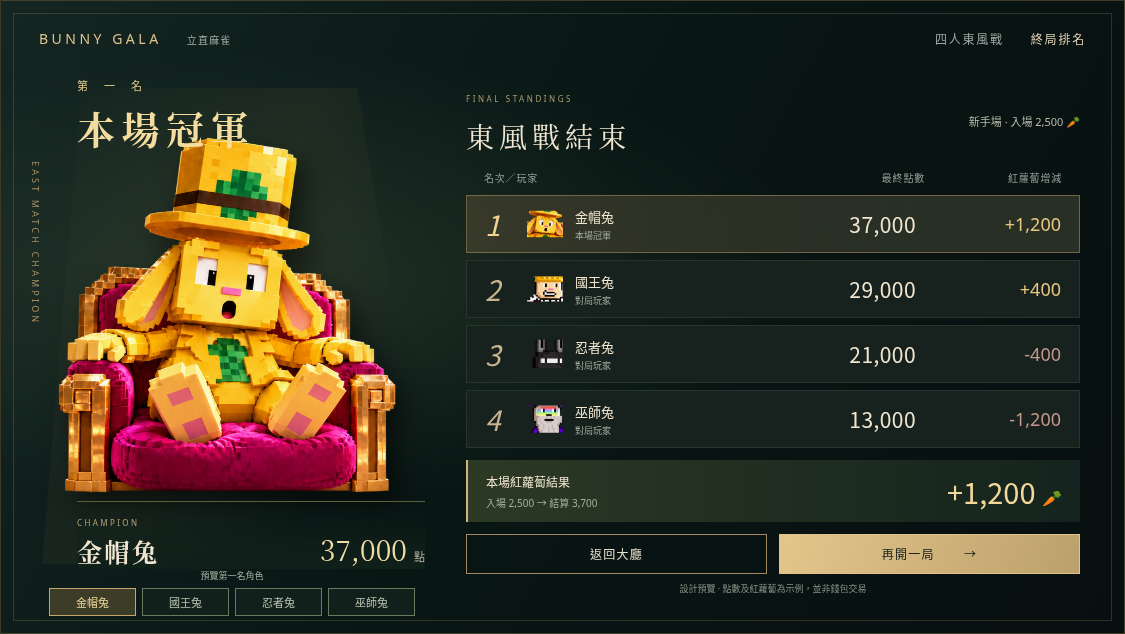
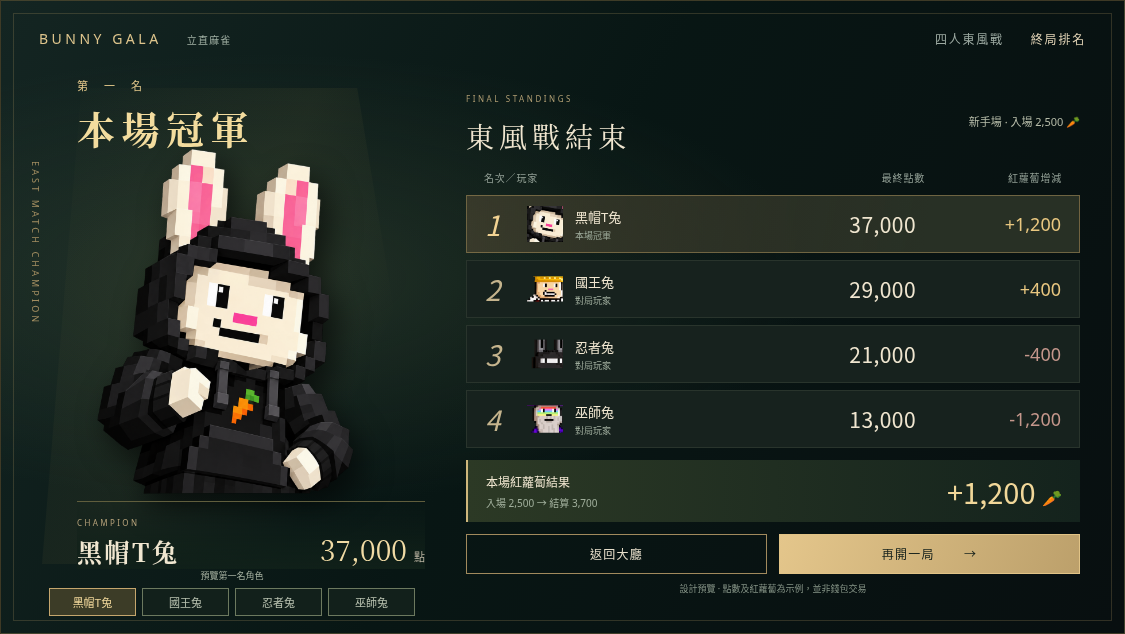
Replace champion preview with black hoodie rabbit cutout and gallery

diff --git a/ART/final-ranking-v2/preview.css b/ART/final-ranking-v2/preview.css
@@ -1,3 +1,6 @@
 *{box-sizing:border-box}html,body{margin:0;min-height:100%;background:#050b0b;color:#f0e6d0;font-family:"Noto Sans TC","Microsoft JhengHei",system-ui,sans-serif}body{display:flex;align-items:center;justify-content:center;min-height:100vh;overflow:hidden}.canvas{position:relative;width:1125px;height:634px;flex:0 0 auto;transform-origin:center;background:radial-gradient(ellipse at 24% 44%,#42513a66,transparent 45%),linear-gradient(118deg,#142522,#081614 48%,#080f10);border:1px solid #92784666;overflow:hidden}.canvas:before{content:"";position:absolute;inset:12px;border:1px solid #ad956140;pointer-events:none}.top{position:absolute;left:38px;right:38px;top:28px;display:flex;justify-content:space-between;align-items:center;font-size:12px;letter-spacing:.15em}.top>span{font-size:14px;color:#ddc48c;letter-spacing:.25em}.top i{font-size:10px;color:#a1b0a4;font-style:normal;letter-spacing:.12em;margin-left:18px}.top>div{color:#9daaa2}.top b{font-weight:400;color:#e0d2b5;margin-left:22px}.champion{position:absolute;left:16px;top:72px;bottom:64px;width:414px}.champion-light{position:absolute;inset:15px -5px 5px 25px;background:linear-gradient(115deg,transparent,#d5b55b10 45%,transparent 75%);clip-path:polygon(10% 0,80% 0,100% 100%,0 100%)}.vertical-label{position:absolute;left:12px;top:88px;writing-mode:vertical-rl;font-size:9px;letter-spacing:.35em;color:#a28d60}.champion-heading{position:absolute;left:60px;top:0;z-index:2}.champion-heading>small{letter-spacing:.6em;font-size:11px;color:#e4c88b}.champion-heading h1{font:600 38px/1.2 serif;margin:10px 0 0;letter-spacing:.17em;color:#f3dc9e}.cutout{position:absolute;left:14px;top:69px;width:390px;height:360px;object-fit:contain;object-position:center bottom;filter:drop-shadow(9px 13px 15px #0009)}.cutout[data-role=yellow]{left:36px;width:348px;height:360px;top:62px}.champion-name{position:absolute;left:60px;right:6px;bottom:0;display:grid;grid-template-columns:1fr auto;align-items:center;border-top:1px solid #bca46777;padding:15px 0 0;background:linear-gradient(0deg,#102019,transparent)}.champion-name>span{font-size:8px;letter-spacing:.3em;color:#b6a27a;grid-column:1/-1}.champion-name>strong{font:600 25px serif;letter-spacing:.1em;margin-top:5px}.champion-name>small{font:400 28px Georgia,serif;color:#f1dba5}.champion-name em{font:11px system-ui;color:#b9b2a1;font-style:normal}.results{position:absolute;top:91px;left:465px;right:44px;bottom:62px}.results-heading{display:flex;justify-content:space-between;align-items:center;margin-bottom:20px}.results-heading small{font-size:8px;letter-spacing:.32em;color:#ad9b71}.results-heading h2{font:500 28px serif;letter-spacing:.18em;margin:9px 0 0}.results-heading>span{font-size:11px;color:#b7bca9}.columns{display:grid;grid-template-columns:1fr 110px 137px;font-size:10px;color:#929f95;letter-spacing:.08em;padding:0 18px 10px}.columns>span:not(:first-child){text-align:right}ol{list-style:none;padding:0;margin:0;display:grid;gap:7px}li{height:61px;display:grid;grid-template-columns:34px 40px 1fr 110px 137px;gap:8px;align-items:center;padding:0 18px;background:#17221e;border:1px solid #65725b3d}li:first-child{background:linear-gradient(100deg,#6a583c66,#283025 75%);border-color:#ac925c88}.rank{font:italic 28px Georgia;color:#c5b48d}li:first-child .rank{color:#f3d393}.avatar{width:36px;height:36px;object-fit:contain}.person{font-size:13px;white-space:nowrap}.person small{display:block;font-size:9px;color:#9fac9c;margin-top:3px}.points{text-align:right;font:400 21px Georgia;letter-spacing:.02em}.net{text-align:right;font:500 18px system-ui;color:#d7cca8}.net.positive{color:#e9c780}.net.negative{color:#c5978c}.your-result{display:flex;justify-content:space-between;align-items:center;padding:12px 18px;margin-top:12px;background:linear-gradient(90deg,#2c3925,#14231d);border-left:2px solid #cfb77c}.your-result>span{font-size:12px}.your-result small{display:block;margin-top:4px;font-size:10px;color:#a1af9c}.your-result>strong{font:500 29px Georgia;color:#f1d799}.your-result em{font-size:16px;font-style:normal}.actions{display:flex;gap:12px;margin-top:16px}.actions button{height:40px;flex:1;border:1px solid #a18a5d;background:transparent;color:#e8dfcb;font:500 12px system-ui;letter-spacing:.1em;cursor:pointer}.actions .primary{background:linear-gradient(110deg,#e4c68b,#bca06b);color:#14201b;border-color:#e1c386}.actions .primary>span{margin-left:25px}.example-note{margin:8px 0 0;font-size:9px;color:#839184;text-align:center}.role-switch{position:absolute;bottom:15px;left:76px;right:76px;display:flex;gap:8px;align-items:center;justify-content:center}.role-switch>span{font-size:10px;color:#a3ae9e;margin-right:12px}.role-switch button{padding:6px 16px;border:1px solid #6c795f;background:#12201b;color:#b9c2b0;font-size:11px;cursor:pointer}.role-switch button[aria-pressed=true]{color:#f0d79a;border-color:#c5a66d;background:#3c3c27}#notice{position:fixed;bottom:8px;font-size:12px;color:#dcc894}button:focus-visible{outline:2px solid #f2d28b;outline-offset:3px}
 /* Keep preview controls in the champion column, clear of the result actions. */
 .role-switch{left:48px;right:auto;width:366px;bottom:17px;display:grid;grid-template-columns:repeat(4,1fr);gap:6px}.role-switch>span{grid-column:1/-1;text-align:center;margin:0;font-size:9px}.role-switch button{padding:5px 6px}.results{top:84px}.results-heading{margin-bottom:14px}li{height:58px}.your-result{padding:10px 18px}.actions{margin-top:12px}
+
+.cutout[data-role=yellow]{left:14px;top:69px;width:390px;height:360px}.avatar-window{position:relative;display:block;overflow:hidden;width:36px;height:36px}.avatar-window .hoodie-avatar{position:absolute;width:68px;height:68px;max-width:none;left:-16px;top:-4px;object-fit:contain}
+.avatar-window .hoodie-avatar{width:96px;height:96px;left:-31px;top:-28px}

diff --git a/app-source/dist/art/final-ranking-v2/preview.css b/app-source/dist/art/final-ranking-v2/preview.css
@@ -1,3 +1,6 @@
 *{box-sizing:border-box}html,body{margin:0;min-height:100%;background:#050b0b;color:#f0e6d0;font-family:"Noto Sans TC","Microsoft JhengHei",system-ui,sans-serif}body{display:flex;align-items:center;justify-content:center;min-height:100vh;overflow:hidden}.canvas{position:relative;width:1125px;height:634px;flex:0 0 auto;transform-origin:center;background:radial-gradient(ellipse at 24% 44%,#42513a66,transparent 45%),linear-gradient(118deg,#142522,#081614 48%,#080f10);border:1px solid #92784666;overflow:hidden}.canvas:before{content:"";position:absolute;inset:12px;border:1px solid #ad956140;pointer-events:none}.top{position:absolute;left:38px;right:38px;top:28px;display:flex;justify-content:space-between;align-items:center;font-size:12px;letter-spacing:.15em}.top>span{font-size:14px;color:#ddc48c;letter-spacing:.25em}.top i{font-size:10px;color:#a1b0a4;font-style:normal;letter-spacing:.12em;margin-left:18px}.top>div{color:#9daaa2}.top b{font-weight:400;color:#e0d2b5;margin-left:22px}.champion{position:absolute;left:16px;top:72px;bottom:64px;width:414px}.champion-light{position:absolute;inset:15px -5px 5px 25px;background:linear-gradient(115deg,transparent,#d5b55b10 45%,transparent 75%);clip-path:polygon(10% 0,80% 0,100% 100%,0 100%)}.vertical-label{position:absolute;left:12px;top:88px;writing-mode:vertical-rl;font-size:9px;letter-spacing:.35em;color:#a28d60}.champion-heading{position:absolute;left:60px;top:0;z-index:2}.champion-heading>small{letter-spacing:.6em;font-size:11px;color:#e4c88b}.champion-heading h1{font:600 38px/1.2 serif;margin:10px 0 0;letter-spacing:.17em;color:#f3dc9e}.cutout{position:absolute;left:14px;top:69px;width:390px;height:360px;object-fit:contain;object-position:center bottom;filter:drop-shadow(9px 13px 15px #0009)}.cutout[data-role=yellow]{left:36px;width:348px;height:360px;top:62px}.champion-name{position:absolute;left:60px;right:6px;bottom:0;display:grid;grid-template-columns:1fr auto;align-items:center;border-top:1px solid #bca46777;padding:15px 0 0;background:linear-gradient(0deg,#102019,transparent)}.champion-name>span{font-size:8px;letter-spacing:.3em;color:#b6a27a;grid-column:1/-1}.champion-name>strong{font:600 25px serif;letter-spacing:.1em;margin-top:5px}.champion-name>small{font:400 28px Georgia,serif;color:#f1dba5}.champion-name em{font:11px system-ui;color:#b9b2a1;font-style:normal}.results{position:absolute;top:91px;left:465px;right:44px;bottom:62px}.results-heading{display:flex;justify-content:space-between;align-items:center;margin-bottom:20px}.results-heading small{font-size:8px;letter-spacing:.32em;color:#ad9b71}.results-heading h2{font:500 28px serif;letter-spacing:.18em;margin:9px 0 0}.results-heading>span{font-size:11px;color:#b7bca9}.columns{display:grid;grid-template-columns:1fr 110px 137px;font-size:10px;color:#929f95;letter-spacing:.08em;padding:0 18px 10px}.columns>span:not(:first-child){text-align:right}ol{list-style:none;padding:0;margin:0;display:grid;gap:7px}li{height:61px;display:grid;grid-template-columns:34px 40px 1fr 110px 137px;gap:8px;align-items:center;padding:0 18px;background:#17221e;border:1px solid #65725b3d}li:first-child{background:linear-gradient(100deg,#6a583c66,#283025 75%);border-color:#ac925c88}.rank{font:italic 28px Georgia;color:#c5b48d}li:first-child .rank{color:#f3d393}.avatar{width:36px;height:36px;object-fit:contain}.person{font-size:13px;white-space:nowrap}.person small{display:block;font-size:9px;color:#9fac9c;margin-top:3px}.points{text-align:right;font:400 21px Georgia;letter-spacing:.02em}.net{text-align:right;font:500 18px system-ui;color:#d7cca8}.net.positive{color:#e9c780}.net.negative{color:#c5978c}.your-result{display:flex;justify-content:space-between;align-items:center;padding:12px 18px;margin-top:12px;background:linear-gradient(90deg,#2c3925,#14231d);border-left:2px solid #cfb77c}.your-result>span{font-size:12px}.your-result small{display:block;margin-top:4px;font-size:10px;color:#a1af9c}.your-result>strong{font:500 29px Georgia;color:#f1d799}.your-result em{font-size:16px;font-style:normal}.actions{display:flex;gap:12px;margin-top:16px}.actions button{height:40px;flex:1;border:1px solid #a18a5d;background:transparent;color:#e8dfcb;font:500 12px system-ui;letter-spacing:.1em;cursor:pointer}.actions .primary{background:linear-gradient(110deg,#e4c68b,#bca06b);color:#14201b;border-color:#e1c386}.actions .primary>span{margin-left:25px}.example-note{margin:8px 0 0;font-size:9px;color:#839184;text-align:center}.role-switch{position:absolute;bottom:15px;left:76px;right:76px;display:flex;gap:8px;align-items:center;justify-content:center}.role-switch>span{font-size:10px;color:#a3ae9e;margin-right:12px}.role-switch button{padding:6px 16px;border:1px solid #6c795f;background:#12201b;color:#b9c2b0;font-size:11px;cursor:pointer}.role-switch button[aria-pressed=true]{color:#f0d79a;border-color:#c5a66d;background:#3c3c27}#notice{position:fixed;bottom:8px;font-size:12px;color:#dcc894}button:focus-visible{outline:2px solid #f2d28b;outline-offset:3px}
 /* Keep preview controls in the champion column, clear of the result actions. */
 .role-switch{left:48px;right:auto;width:366px;bottom:17px;display:grid;grid-template-columns:repeat(4,1fr);gap:6px}.role-switch>span{grid-column:1/-1;text-align:center;margin:0;font-size:9px}.role-switch button{padding:5px 6px}.results{top:84px}.results-heading{margin-bottom:14px}li{height:58px}.your-result{padding:10px 18px}.actions{margin-top:12px}
+
+.cutout[data-role=yellow]{left:14px;top:69px;width:390px;height:360px}.avatar-window{position:relative;display:block;overflow:hidden;width:36px;height:36px}.avatar-window .hoodie-avatar{position:absolute;width:68px;height:68px;max-width:none;left:-16px;top:-4px;object-fit:contain}
+.avatar-window .hoodie-avatar{width:96px;height:96px;left:-31px;top:-28px}

diff --git a/app-source/public/art/final-ranking-v2/preview.css b/app-source/public/art/final-ranking-v2/preview.css
@@ -1,3 +1,6 @@
 *{box-sizing:border-box}html,body{margin:0;min-height:100%;background:#050b0b;color:#f0e6d0;font-family:"Noto Sans TC","Microsoft JhengHei",system-ui,sans-serif}body{display:flex;align-items:center;justify-content:center;min-height:100vh;overflow:hidden}.canvas{position:relative;width:1125px;height:634px;flex:0 0 auto;transform-origin:center;background:radial-gradient(ellipse at 24% 44%,#42513a66,transparent 45%),linear-gradient(118deg,#142522,#081614 48%,#080f10);border:1px solid #92784666;overflow:hidden}.canvas:before{content:"";position:absolute;inset:12px;border:1px solid #ad956140;pointer-events:none}.top{position:absolute;left:38px;right:38px;top:28px;display:flex;justify-content:space-between;align-items:center;font-size:12px;letter-spacing:.15em}.top>span{font-size:14px;color:#ddc48c;letter-spacing:.25em}.top i{font-size:10px;color:#a1b0a4;font-style:normal;letter-spacing:.12em;margin-left:18px}.top>div{color:#9daaa2}.top b{font-weight:400;color:#e0d2b5;margin-left:22px}.champion{position:absolute;left:16px;top:72px;bottom:64px;width:414px}.champion-light{position:absolute;inset:15px -5px 5px 25px;background:linear-gradient(115deg,transparent,#d5b55b10 45%,transparent 75%);clip-path:polygon(10% 0,80% 0,100% 100%,0 100%)}.vertical-label{position:absolute;left:12px;top:88px;writing-mode:vertical-rl;font-size:9px;letter-spacing:.35em;color:#a28d60}.champion-heading{position:absolute;left:60px;top:0;z-index:2}.champion-heading>small{letter-spacing:.6em;font-size:11px;color:#e4c88b}.champion-heading h1{font:600 38px/1.2 serif;margin:10px 0 0;letter-spacing:.17em;color:#f3dc9e}.cutout{position:absolute;left:14px;top:69px;width:390px;height:360px;object-fit:contain;object-position:center bottom;filter:drop-shadow(9px 13px 15px #0009)}.cutout[data-role=yellow]{left:36px;width:348px;height:360px;top:62px}.champion-name{position:absolute;left:60px;right:6px;bottom:0;display:grid;grid-template-columns:1fr auto;align-items:center;border-top:1px solid #bca46777;padding:15px 0 0;background:linear-gradient(0deg,#102019,transparent)}.champion-name>span{font-size:8px;letter-spacing:.3em;color:#b6a27a;grid-column:1/-1}.champion-name>strong{font:600 25px serif;letter-spacing:.1em;margin-top:5px}.champion-name>small{font:400 28px Georgia,serif;color:#f1dba5}.champion-name em{font:11px system-ui;color:#b9b2a1;font-style:normal}.results{position:absolute;top:91px;left:465px;right:44px;bottom:62px}.results-heading{display:flex;justify-content:space-between;align-items:center;margin-bottom:20px}.results-heading small{font-size:8px;letter-spacing:.32em;color:#ad9b71}.results-heading h2{font:500 28px serif;letter-spacing:.18em;margin:9px 0 0}.results-heading>span{font-size:11px;color:#b7bca9}.columns{display:grid;grid-template-columns:1fr 110px 137px;font-size:10px;color:#929f95;letter-spacing:.08em;padding:0 18px 10px}.columns>span:not(:first-child){text-align:right}ol{list-style:none;padding:0;margin:0;display:grid;gap:7px}li{height:61px;display:grid;grid-template-columns:34px 40px 1fr 110px 137px;gap:8px;align-items:center;padding:0 18px;background:#17221e;border:1px solid #65725b3d}li:first-child{background:linear-gradient(100deg,#6a583c66,#283025 75%);border-color:#ac925c88}.rank{font:italic 28px Georgia;color:#c5b48d}li:first-child .rank{color:#f3d393}.avatar{width:36px;height:36px;object-fit:contain}.person{font-size:13px;white-space:nowrap}.person small{display:block;font-size:9px;color:#9fac9c;margin-top:3px}.points{text-align:right;font:400 21px Georgia;letter-spacing:.02em}.net{text-align:right;font:500 18px system-ui;color:#d7cca8}.net.positive{color:#e9c780}.net.negative{color:#c5978c}.your-result{display:flex;justify-content:space-between;align-items:center;padding:12px 18px;margin-top:12px;background:linear-gradient(90deg,#2c3925,#14231d);border-left:2px solid #cfb77c}.your-result>span{font-size:12px}.your-result small{display:block;margin-top:4px;font-size:10px;color:#a1af9c}.your-result>strong{font:500 29px Georgia;color:#f1d799}.your-result em{font-size:16px;font-style:normal}.actions{display:flex;gap:12px;margin-top:16px}.actions button{height:40px;flex:1;border:1px solid #a18a5d;background:transparent;color:#e8dfcb;font:500 12px system-ui;letter-spacing:.1em;cursor:pointer}.actions .primary{background:linear-gradient(110deg,#e4c68b,#bca06b);color:#14201b;border-color:#e1c386}.actions .primary>span{margin-left:25px}.example-note{margin:8px 0 0;font-size:9px;color:#839184;text-align:center}.role-switch{position:absolute;bottom:15px;left:76px;right:76px;display:flex;gap:8px;align-items:center;justify-content:center}.role-switch>span{font-size:10px;color:#a3ae9e;margin-right:12px}.role-switch button{padding:6px 16px;border:1px solid #6c795f;background:#12201b;color:#b9c2b0;font-size:11px;cursor:pointer}.role-switch button[aria-pressed=true]{color:#f0d79a;border-color:#c5a66d;background:#3c3c27}#notice{position:fixed;bottom:8px;font-size:12px;color:#dcc894}button:focus-visible{outline:2px solid #f2d28b;outline-offset:3px}
 /* Keep preview controls in the champion column, clear of the result actions. */
 .role-switch{left:48px;right:auto;width:366px;bottom:17px;display:grid;grid-template-columns:repeat(4,1fr);gap:6px}.role-switch>span{grid-column:1/-1;text-align:center;margin:0;font-size:9px}.role-switch button{padding:5px 6px}.results{top:84px}.results-heading{margin-bottom:14px}li{height:58px}.your-result{padding:10px 18px}.actions{margin-top:12px}
+
+.cutout[data-role=yellow]{left:14px;top:69px;width:390px;height:360px}.avatar-window{position:relative;display:block;overflow:hidden;width:36px;height:36px}.avatar-window .hoodie-avatar{position:absolute;width:68px;height:68px;max-width:none;left:-16px;top:-4px;object-fit:contain}
+.avatar-window .hoodie-avatar{width:96px;height:96px;left:-31px;top:-28px}

diff --git a/ART/final-ranking-v2/index.html b/ART/final-ranking-v2/index.html
@@ -1,1 +1,1 @@
-<!doctype html><html lang="zh-Hant"><head><meta charset="utf-8"><meta name="viewport" content="width=device-width,initial-scale=1"><title>Bunny Gala · 終局排名設計預覽</title><link rel="stylesheet" href="preview.css"></head><body><main class="canvas"><header class="top"><span>BUNNY GALA <i>立直麻雀</i></span><div>四人東風戰 <b>終局排名</b></div></header><section class="champion"><div class="champion-light"></div><span class="vertical-label">EAST MATCH CHAMPION</span><div class="champion-heading"><small>第 一 名</small><h1>本場冠軍</h1></div><img id="champion" class="cutout" alt="第一名去背角色"><div class="champion-name"><span>CHAMPION</span><strong id="winnerName"></strong><small>37,000 <em>點</em></small></div></section><section class="results"><div class="results-heading"><div><small>FINAL STANDINGS</small><h2>東風戰結束</h2></div><span>新手場 · 入場 2,500 🥕</span></div><div class="columns"><span>名次／玩家</span><span>最終點數</span><span>紅蘿蔔增減</span></div><ol id="standings"></ol><div class="your-result"><span>本場紅蘿蔔結果<small>入場 2,500 → 結算 3,700</small></span><strong>+1,200 <em>🥕</em></strong></div><footer class="actions"><button type="button" class="secondary" id="back">返回大廳</button><button type="button" class="primary" id="again">再開一局 <span>→</span></button></footer><p class="example-note">設計預覽 · 點數及紅蘿蔔為示例，並非錢包交易</p></section><nav class="role-switch" aria-label="切換冠軍角色"><span>預覽第一名角色</span><button data-role="yellow">金帽兔</button><button data-role="king">國王兔</button><button data-role="ninja">忍者兔</button><button data-role="wizard">巫師兔</button></nav></main><div id="notice" role="status"></div><script src="preview.js"></script></body></html>
+<!doctype html><html lang="zh-Hant"><head><meta charset="utf-8"><meta name="viewport" content="width=device-width,initial-scale=1"><title>Bunny Gala · 終局排名設計預覽</title><link rel="stylesheet" href="preview.css"></head><body><main class="canvas"><header class="top"><span>BUNNY GALA <i>立直麻雀</i></span><div>四人東風戰 <b>終局排名</b></div></header><section class="champion"><div class="champion-light"></div><span class="vertical-label">EAST MATCH CHAMPION</span><div class="champion-heading"><small>第 一 名</small><h1>本場冠軍</h1></div><img id="champion" class="cutout" alt="第一名去背角色"><div class="champion-name"><span>CHAMPION</span><strong id="winnerName"></strong><small>37,000 <em>點</em></small></div></section><section class="results"><div class="results-heading"><div><small>FINAL STANDINGS</small><h2>東風戰結束</h2></div><span>新手場 · 入場 2,500 🥕</span></div><div class="columns"><span>名次／玩家</span><span>最終點數</span><span>紅蘿蔔增減</span></div><ol id="standings"></ol><div class="your-result"><span>本場紅蘿蔔結果<small>入場 2,500 → 結算 3,700</small></span><strong>+1,200 <em>🥕</em></strong></div><footer class="actions"><button type="button" class="secondary" id="back">返回大廳</button><button type="button" class="primary" id="again">再開一局 <span>→</span></button></footer><p class="example-note">設計預覽 · 點數及紅蘿蔔為示例，並非錢包交易</p></section><nav class="role-switch" aria-label="切換冠軍角色"><span>預覽第一名角色</span><button data-role="yellow">黑帽T兔</button><button data-role="king">國王兔</button><button data-role="ninja">忍者兔</button><button data-role="wizard">巫師兔</button></nav></main><div id="notice" role="status"></div><script src="preview.js"></script></body></html>

diff --git a/app-source/dist/art/final-ranking-v2/index.html b/app-source/dist/art/final-ranking-v2/index.html
@@ -1,1 +1,1 @@
-<!doctype html><html lang="zh-Hant"><head><meta charset="utf-8"><meta name="viewport" content="width=device-width,initial-scale=1"><title>Bunny Gala · 終局排名設計預覽</title><link rel="stylesheet" href="preview.css"></head><body><main class="canvas"><header class="top"><span>BUNNY GALA <i>立直麻雀</i></span><div>四人東風戰 <b>終局排名</b></div></header><section class="champion"><div class="champion-light"></div><span class="vertical-label">EAST MATCH CHAMPION</span><div class="champion-heading"><small>第 一 名</small><h1>本場冠軍</h1></div><img id="champion" class="cutout" alt="第一名去背角色"><div class="champion-name"><span>CHAMPION</span><strong id="winnerName"></strong><small>37,000 <em>點</em></small></div></section><section class="results"><div class="results-heading"><div><small>FINAL STANDINGS</small><h2>東風戰結束</h2></div><span>新手場 · 入場 2,500 🥕</span></div><div class="columns"><span>名次／玩家</span><span>最終點數</span><span>紅蘿蔔增減</span></div><ol id="standings"></ol><div class="your-result"><span>本場紅蘿蔔結果<small>入場 2,500 → 結算 3,700</small></span><strong>+1,200 <em>🥕</em></strong></div><footer class="actions"><button type="button" class="secondary" id="back">返回大廳</button><button type="button" class="primary" id="again">再開一局 <span>→</span></button></footer><p class="example-note">設計預覽 · 點數及紅蘿蔔為示例，並非錢包交易</p></section><nav class="role-switch" aria-label="切換冠軍角色"><span>預覽第一名角色</span><button data-role="yellow">金帽兔</button><button data-role="king">國王兔</button><button data-role="ninja">忍者兔</button><button data-role="wizard">巫師兔</button></nav></main><div id="notice" role="status"></div><script src="preview.js"></script></body></html>
+<!doctype html><html lang="zh-Hant"><head><meta charset="utf-8"><meta name="viewport" content="width=device-width,initial-scale=1"><title>Bunny Gala · 終局排名設計預覽</title><link rel="stylesheet" href="preview.css"></head><body><main class="canvas"><header class="top"><span>BUNNY GALA <i>立直麻雀</i></span><div>四人東風戰 <b>終局排名</b></div></header><section class="champion"><div class="champion-light"></div><span class="vertical-label">EAST MATCH CHAMPION</span><div class="champion-heading"><small>第 一 名</small><h1>本場冠軍</h1></div><img id="champion" class="cutout" alt="第一名去背角色"><div class="champion-name"><span>CHAMPION</span><strong id="winnerName"></strong><small>37,000 <em>點</em></small></div></section><section class="results"><div class="results-heading"><div><small>FINAL STANDINGS</small><h2>東風戰結束</h2></div><span>新手場 · 入場 2,500 🥕</span></div><div class="columns"><span>名次／玩家</span><span>最終點數</span><span>紅蘿蔔增減</span></div><ol id="standings"></ol><div class="your-result"><span>本場紅蘿蔔結果<small>入場 2,500 → 結算 3,700</small></span><strong>+1,200 <em>🥕</em></strong></div><footer class="actions"><button type="button" class="secondary" id="back">返回大廳</button><button type="button" class="primary" id="again">再開一局 <span>→</span></button></footer><p class="example-note">設計預覽 · 點數及紅蘿蔔為示例，並非錢包交易</p></section><nav class="role-switch" aria-label="切換冠軍角色"><span>預覽第一名角色</span><button data-role="yellow">黑帽T兔</button><button data-role="king">國王兔</button><button data-role="ninja">忍者兔</button><button data-role="wizard">巫師兔</button></nav></main><div id="notice" role="status"></div><script src="preview.js"></script></body></html>

diff --git a/app-source/public/art/final-ranking-v2/index.html b/app-source/public/art/final-ranking-v2/index.html
@@ -1,1 +1,1 @@
-<!doctype html><html lang="zh-Hant"><head><meta charset="utf-8"><meta name="viewport" content="width=device-width,initial-scale=1"><title>Bunny Gala · 終局排名設計預覽</title><link rel="stylesheet" href="preview.css"></head><body><main class="canvas"><header class="top"><span>BUNNY GALA <i>立直麻雀</i></span><div>四人東風戰 <b>終局排名</b></div></header><section class="champion"><div class="champion-light"></div><span class="vertical-label">EAST MATCH CHAMPION</span><div class="champion-heading"><small>第 一 名</small><h1>本場冠軍</h1></div><img id="champion" class="cutout" alt="第一名去背角色"><div class="champion-name"><span>CHAMPION</span><strong id="winnerName"></strong><small>37,000 <em>點</em></small></div></section><section class="results"><div class="results-heading"><div><small>FINAL STANDINGS</small><h2>東風戰結束</h2></div><span>新手場 · 入場 2,500 🥕</span></div><div class="columns"><span>名次／玩家</span><span>最終點數</span><span>紅蘿蔔增減</span></div><ol id="standings"></ol><div class="your-result"><span>本場紅蘿蔔結果<small>入場 2,500 → 結算 3,700</small></span><strong>+1,200 <em>🥕</em></strong></div><footer class="actions"><button type="button" class="secondary" id="back">返回大廳</button><button type="button" class="primary" id="again">再開一局 <span>→</span></button></footer><p class="example-note">設計預覽 · 點數及紅蘿蔔為示例，並非錢包交易</p></section><nav class="role-switch" aria-label="切換冠軍角色"><span>預覽第一名角色</span><button data-role="yellow">金帽兔</button><button data-role="king">國王兔</button><button data-role="ninja">忍者兔</button><button data-role="wizard">巫師兔</button></nav></main><div id="notice" role="status"></div><script src="preview.js"></script></body></html>
+<!doctype html><html lang="zh-Hant"><head><meta charset="utf-8"><meta name="viewport" content="width=device-width,initial-scale=1"><title>Bunny Gala · 終局排名設計預覽</title><link rel="stylesheet" href="preview.css"></head><body><main class="canvas"><header class="top"><span>BUNNY GALA <i>立直麻雀</i></span><div>四人東風戰 <b>終局排名</b></div></header><section class="champion"><div class="champion-light"></div><span class="vertical-label">EAST MATCH CHAMPION</span><div class="champion-heading"><small>第 一 名</small><h1>本場冠軍</h1></div><img id="champion" class="cutout" alt="第一名去背角色"><div class="champion-name"><span>CHAMPION</span><strong id="winnerName"></strong><small>37,000 <em>點</em></small></div></section><section class="results"><div class="results-heading"><div><small>FINAL STANDINGS</small><h2>東風戰結束</h2></div><span>新手場 · 入場 2,500 🥕</span></div><div class="columns"><span>名次／玩家</span><span>最終點數</span><span>紅蘿蔔增減</span></div><ol id="standings"></ol><div class="your-result"><span>本場紅蘿蔔結果<small>入場 2,500 → 結算 3,700</small></span><strong>+1,200 <em>🥕</em></strong></div><footer class="actions"><button type="button" class="secondary" id="back">返回大廳</button><button type="button" class="primary" id="again">再開一局 <span>→</span></button></footer><p class="example-note">設計預覽 · 點數及紅蘿蔔為示例，並非錢包交易</p></section><nav class="role-switch" aria-label="切換冠軍角色"><span>預覽第一名角色</span><button data-role="yellow">黑帽T兔</button><button data-role="king">國王兔</button><button data-role="ninja">忍者兔</button><button data-role="wizard">巫師兔</button></nav></main><div id="notice" role="status"></div><script src="preview.js"></script></body></html>

diff --git a/ART/final-ranking-v2/preview.js b/ART/final-ranking-v2/preview.js
@@ -1,4 +1,4 @@
-const roles=['yellow','king','ninja','wizard'],names={yellow:'金帽兔',king:'國王兔',ninja:'忍者兔',wizard:'巫師兔'},points=[37000,29000,21000,13000],net=[1200,400,-400,-1200];
-function show(role){if(!roles.includes(role))role='yellow';const image=document.querySelector('#champion');image.src=role==='yellow'?'/art/results/yellow-presentation.png':'/art/ribbon-v2/'+role+'-character.png';image.dataset.role=role;document.querySelector('#winnerName').textContent=names[role];document.querySelector('#standings').replaceChildren(...roles.map((_,i)=>{const character=roles[(roles.indexOf(role)+i)%4],li=document.createElement('li');li.innerHTML='<span class="rank">'+(i+1)+'</span><img class="avatar" src="/art/results/'+character+'-avatar.png" alt=""><span class="person">'+names[character]+'<small>'+(i===0?'本場冠軍':'對局玩家')+'</small></span><strong class="points">'+points[i].toLocaleString()+'</strong><span class="net '+(net[i]>0?'positive':'negative')+'">'+(net[i]>0?'+':'')+net[i].toLocaleString()+'</span>';return li}));document.querySelectorAll('[data-role]').forEach(b=>{if(b.tagName==='BUTTON')b.setAttribute('aria-pressed',String(b.dataset.role===role))});const url=new URL(location.href);url.searchParams.set('role',role);history.replaceState(null,'',url)}
+const roles=['yellow','king','ninja','wizard'],names={yellow:'黑帽T兔',king:'國王兔',ninja:'忍者兔',wizard:'巫師兔'},points=[37000,29000,21000,13000],net=[1200,400,-400,-1200];
+function show(role){if(!roles.includes(role))role='yellow';const image=document.querySelector('#champion');image.src=role==='yellow'?'hoodie-character.png':'/art/ribbon-v2/'+role+'-character.png';image.dataset.role=role;document.querySelector('#winnerName').textContent=names[role];document.querySelector('#standings').replaceChildren(...roles.map((_,i)=>{const character=roles[(roles.indexOf(role)+i)%4],li=document.createElement('li');li.innerHTML='<span class="rank">'+(i+1)+'</span><span class="avatar-window"><img class="avatar '+(character==='yellow'?'hoodie-avatar':'')+'" src="'+(character==='yellow'?'hoodie-character.png':'/art/results/'+character+'-avatar.png')+'" alt=""></span><span class="person">'+names[character]+'<small>'+(i===0?'本場冠軍':'對局玩家')+'</small></span><strong class="points">'+points[i].toLocaleString()+'</strong><span class="net '+(net[i]>0?'positive':'negative')+'">'+(net[i]>0?'+':'')+net[i].toLocaleString()+'</span>';return li}));document.querySelectorAll('[data-role]').forEach(b=>{if(b.tagName==='BUTTON')b.setAttribute('aria-pressed',String(b.dataset.role===role))});const url=new URL(location.href);url.searchParams.set('role',role);history.replaceState(null,'',url)}
 document.querySelectorAll('.role-switch button').forEach(b=>b.onclick=()=>show(b.dataset.role));const resize=()=>document.querySelector('.canvas').style.transform='scale('+Math.min(innerWidth/1125,innerHeight/634)+')';addEventListener('resize',resize);resize();show(new URLSearchParams(location.search).get('role'));
 for(const id of ['back','again'])document.getElementById(id).onclick=()=>document.querySelector('#notice').textContent='這是設計預覽，沒有變更牌局或錢包。';

diff --git a/app-source/dist/art/final-ranking-v2/preview.js b/app-source/dist/art/final-ranking-v2/preview.js
@@ -1,4 +1,4 @@
-const roles=['yellow','king','ninja','wizard'],names={yellow:'金帽兔',king:'國王兔',ninja:'忍者兔',wizard:'巫師兔'},points=[37000,29000,21000,13000],net=[1200,400,-400,-1200];
-function show(role){if(!roles.includes(role))role='yellow';const image=document.querySelector('#champion');image.src=role==='yellow'?'/art/results/yellow-presentation.png':'/art/ribbon-v2/'+role+'-character.png';image.dataset.role=role;document.querySelector('#winnerName').textContent=names[role];document.querySelector('#standings').replaceChildren(...roles.map((_,i)=>{const character=roles[(roles.indexOf(role)+i)%4],li=document.createElement('li');li.innerHTML='<span class="rank">'+(i+1)+'</span><img class="avatar" src="/art/results/'+character+'-avatar.png" alt=""><span class="person">'+names[character]+'<small>'+(i===0?'本場冠軍':'對局玩家')+'</small></span><strong class="points">'+points[i].toLocaleString()+'</strong><span class="net '+(net[i]>0?'positive':'negative')+'">'+(net[i]>0?'+':'')+net[i].toLocaleString()+'</span>';return li}));document.querySelectorAll('[data-role]').forEach(b=>{if(b.tagName==='BUTTON')b.setAttribute('aria-pressed',String(b.dataset.role===role))});const url=new URL(location.href);url.searchParams.set('role',role);history.replaceState(null,'',url)}
+const roles=['yellow','king','ninja','wizard'],names={yellow:'黑帽T兔',king:'國王兔',ninja:'忍者兔',wizard:'巫師兔'},points=[37000,29000,21000,13000],net=[1200,400,-400,-1200];
+function show(role){if(!roles.includes(role))role='yellow';const image=document.querySelector('#champion');image.src=role==='yellow'?'hoodie-character.png':'/art/ribbon-v2/'+role+'-character.png';image.dataset.role=role;document.querySelector('#winnerName').textContent=names[role];document.querySelector('#standings').replaceChildren(...roles.map((_,i)=>{const character=roles[(roles.indexOf(role)+i)%4],li=document.createElement('li');li.innerHTML='<span class="rank">'+(i+1)+'</span><span class="avatar-window"><img class="avatar '+(character==='yellow'?'hoodie-avatar':'')+'" src="'+(character==='yellow'?'hoodie-character.png':'/art/results/'+character+'-avatar.png')+'" alt=""></span><span class="person">'+names[character]+'<small>'+(i===0?'本場冠軍':'對局玩家')+'</small></span><strong class="points">'+points[i].toLocaleString()+'</strong><span class="net '+(net[i]>0?'positive':'negative')+'">'+(net[i]>0?'+':'')+net[i].toLocaleString()+'</span>';return li}));document.querySelectorAll('[data-role]').forEach(b=>{if(b.tagName==='BUTTON')b.setAttribute('aria-pressed',String(b.dataset.role===role))});const url=new URL(location.href);url.searchParams.set('role',role);history.replaceState(null,'',url)}
 document.querySelectorAll('.role-switch button').forEach(b=>b.onclick=()=>show(b.dataset.role));const resize=()=>document.querySelector('.canvas').style.transform='scale('+Math.min(innerWidth/1125,innerHeight/634)+')';addEventListener('resize',resize);resize();show(new URLSearchParams(location.search).get('role'));
 for(const id of ['back','again'])document.getElementById(id).onclick=()=>document.querySelector('#notice').textContent='這是設計預覽，沒有變更牌局或錢包。';

diff --git a/app-source/public/art/final-ranking-v2/preview.js b/app-source/public/art/final-ranking-v2/preview.js
@@ -1,4 +1,4 @@
-const roles=['yellow','king','ninja','wizard'],names={yellow:'金帽兔',king:'國王兔',ninja:'忍者兔',wizard:'巫師兔'},points=[37000,29000,21000,13000],net=[1200,400,-400,-1200];
-function show(role){if(!roles.includes(role))role='yellow';const image=document.querySelector('#champion');image.src=role==='yellow'?'/art/results/yellow-presentation.png':'/art/ribbon-v2/'+role+'-character.png';image.dataset.role=role;document.querySelector('#winnerName').textContent=names[role];document.querySelector('#standings').replaceChildren(...roles.map((_,i)=>{const character=roles[(roles.indexOf(role)+i)%4],li=document.createElement('li');li.innerHTML='<span class="rank">'+(i+1)+'</span><img class="avatar" src="/art/results/'+character+'-avatar.png" alt=""><span class="person">'+names[character]+'<small>'+(i===0?'本場冠軍':'對局玩家')+'</small></span><strong class="points">'+points[i].toLocaleString()+'</strong><span class="net '+(net[i]>0?'positive':'negative')+'">'+(net[i]>0?'+':'')+net[i].toLocaleString()+'</span>';return li}));document.querySelectorAll('[data-role]').forEach(b=>{if(b.tagName==='BUTTON')b.setAttribute('aria-pressed',String(b.dataset.role===role))});const url=new URL(location.href);url.searchParams.set('role',role);history.replaceState(null,'',url)}
+const roles=['yellow','king','ninja','wizard'],names={yellow:'黑帽T兔',king:'國王兔',ninja:'忍者兔',wizard:'巫師兔'},points=[37000,29000,21000,13000],net=[1200,400,-400,-1200];
+function show(role){if(!roles.includes(role))role='yellow';const image=document.querySelector('#champion');image.src=role==='yellow'?'hoodie-character.png':'/art/ribbon-v2/'+role+'-character.png';image.dataset.role=role;document.querySelector('#winnerName').textContent=names[role];document.querySelector('#standings').replaceChildren(...roles.map((_,i)=>{const character=roles[(roles.indexOf(role)+i)%4],li=document.createElement('li');li.innerHTML='<span class="rank">'+(i+1)+'</span><span class="avatar-window"><img class="avatar '+(character==='yellow'?'hoodie-avatar':'')+'" src="'+(character==='yellow'?'hoodie-character.png':'/art/results/'+character+'-avatar.png')+'" alt=""></span><span class="person">'+names[character]+'<small>'+(i===0?'本場冠軍':'對局玩家')+'</small></span><strong class="points">'+points[i].toLocaleString()+'</strong><span class="net '+(net[i]>0?'positive':'negative')+'">'+(net[i]>0?'+':'')+net[i].toLocaleString()+'</span>';return li}));document.querySelectorAll('[data-role]').forEach(b=>{if(b.tagName==='BUTTON')b.setAttribute('aria-pressed',String(b.dataset.role===role))});const url=new URL(location.href);url.searchParams.set('role',role);history.replaceState(null,'',url)}
 document.querySelectorAll('.role-switch button').forEach(b=>b.onclick=()=>show(b.dataset.role));const resize=()=>document.querySelector('.canvas').style.transform='scale('+Math.min(innerWidth/1125,innerHeight/634)+')';addEventListener('resize',resize);resize();show(new URLSearchParams(location.search).get('role'));
 for(const id of ['back','again'])document.getElementById(id).onclick=()=>document.querySelector('#notice').textContent='這是設計預覽，沒有變更牌局或錢包。';

diff --git a/ART/final-ranking-v2/README.md b/ART/final-ranking-v2/README.md
@@ -4,10 +4,12 @@
 
 左側以既有去背角色圖展示第一名，角色選擇同步更新冠軍名稱、頭像與排名角色排列。右側展示四家最終點數、紅蘿蔔增減、返回及再開按鈕。預覽數字是示例，不連接錢包。正式對局的終局頁尚未替換，待設計確認。
 
-| 金帽兔 | 國王兔 |
+| 黑帽T兔 | 國王兔 |
 | --- | --- |
-| ![金帽兔](yellow-preview.png) | ![國王兔](king-preview.png) |
+| ![黑帽T兔](yellow-preview.png) | ![國王兔](king-preview.png) |
 | 忍者兔 | 巫師兔 |
 | ![忍者兔](ninja-preview.png) | ![巫師兔](wizard-preview.png) |
 
-去背角色來源：`/art/results/yellow-presentation.png` 及 `/art/ribbon-v2/{king,ninja,wizard}-character.png`，均為帶透明 Alpha 的既有角色素材。直接使用角色圖，沒有在背景圖中烙印冠軍，便於按真實第一名替換。
+去背角色來源：`hoodie-character.png`（重新製作、與另外三隻統一風格的黑帽T兔） 及 `/art/ribbon-v2/{king,ninja,wizard}-character.png`，均為帶透明 Alpha 的既有角色素材。直接使用角色圖，沒有在背景圖中烙印冠軍，便於按真實第一名替換。
+
+本次替換終局設計預覽中的第一位角色及其排名頭像；黑帽T兔原始去背圖見 [hoodie-character.png](hoodie-character.png)。其他三角色原圖沿用。內部 `yellow` 預覽選項保留相容舊連結，顯示名稱與素材已換新。

diff --git a/app-source/dist/art/final-ranking-v2/README.md b/app-source/dist/art/final-ranking-v2/README.md
@@ -4,10 +4,12 @@
 
 左側以既有去背角色圖展示第一名，角色選擇同步更新冠軍名稱、頭像與排名角色排列。右側展示四家最終點數、紅蘿蔔增減、返回及再開按鈕。預覽數字是示例，不連接錢包。正式對局的終局頁尚未替換，待設計確認。
 
-| 金帽兔 | 國王兔 |
+| 黑帽T兔 | 國王兔 |
 | --- | --- |
-| ![金帽兔](yellow-preview.png) | ![國王兔](king-preview.png) |
+| ![黑帽T兔](yellow-preview.png) | ![國王兔](king-preview.png) |
 | 忍者兔 | 巫師兔 |
 | ![忍者兔](ninja-preview.png) | ![巫師兔](wizard-preview.png) |
 
-去背角色來源：`/art/results/yellow-presentation.png` 及 `/art/ribbon-v2/{king,ninja,wizard}-character.png`，均為帶透明 Alpha 的既有角色素材。直接使用角色圖，沒有在背景圖中烙印冠軍，便於按真實第一名替換。
+去背角色來源：`hoodie-character.png`（重新製作、與另外三隻統一風格的黑帽T兔） 及 `/art/ribbon-v2/{king,ninja,wizard}-character.png`，均為帶透明 Alpha 的既有角色素材。直接使用角色圖，沒有在背景圖中烙印冠軍，便於按真實第一名替換。
+
+本次替換終局設計預覽中的第一位角色及其排名頭像；黑帽T兔原始去背圖見 [hoodie-character.png](hoodie-character.png)。其他三角色原圖沿用。內部 `yellow` 預覽選項保留相容舊連結，顯示名稱與素材已換新。

diff --git a/app-source/public/art/final-ranking-v2/README.md b/app-source/public/art/final-ranking-v2/README.md
@@ -4,10 +4,12 @@
 
 左側以既有去背角色圖展示第一名，角色選擇同步更新冠軍名稱、頭像與排名角色排列。右側展示四家最終點數、紅蘿蔔增減、返回及再開按鈕。預覽數字是示例，不連接錢包。正式對局的終局頁尚未替換，待設計確認。
 
-| 金帽兔 | 國王兔 |
+| 黑帽T兔 | 國王兔 |
 | --- | --- |
-| ![金帽兔](yellow-preview.png) | ![國王兔](king-preview.png) |
+| ![黑帽T兔](yellow-preview.png) | ![國王兔](king-preview.png) |
 | 忍者兔 | 巫師兔 |
 | ![忍者兔](ninja-preview.png) | ![巫師兔](wizard-preview.png) |
 
-去背角色來源：`/art/results/yellow-presentation.png` 及 `/art/ribbon-v2/{king,ninja,wizard}-character.png`，均為帶透明 Alpha 的既有角色素材。直接使用角色圖，沒有在背景圖中烙印冠軍，便於按真實第一名替換。
+去背角色來源：`hoodie-character.png`（重新製作、與另外三隻統一風格的黑帽T兔） 及 `/art/ribbon-v2/{king,ninja,wizard}-character.png`，均為帶透明 Alpha 的既有角色素材。直接使用角色圖，沒有在背景圖中烙印冠軍，便於按真實第一名替換。
+
+本次替換終局設計預覽中的第一位角色及其排名頭像；黑帽T兔原始去背圖見 [hoodie-character.png](hoodie-character.png)。其他三角色原圖沿用。內部 `yellow` 預覽選項保留相容舊連結，顯示名稱與素材已換新。
